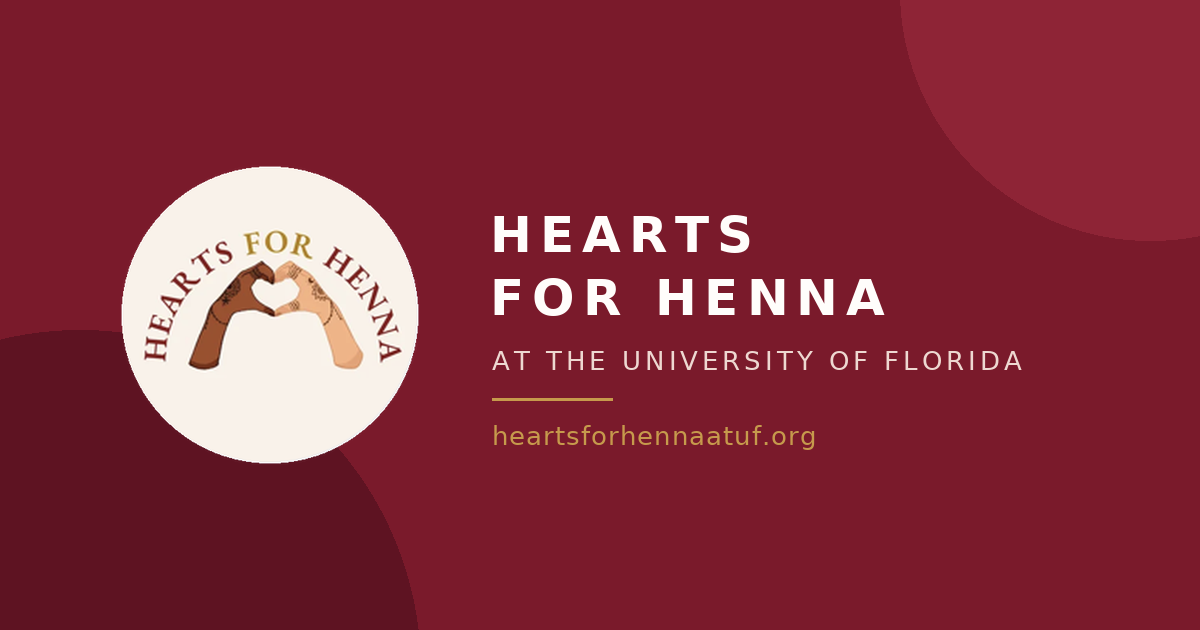
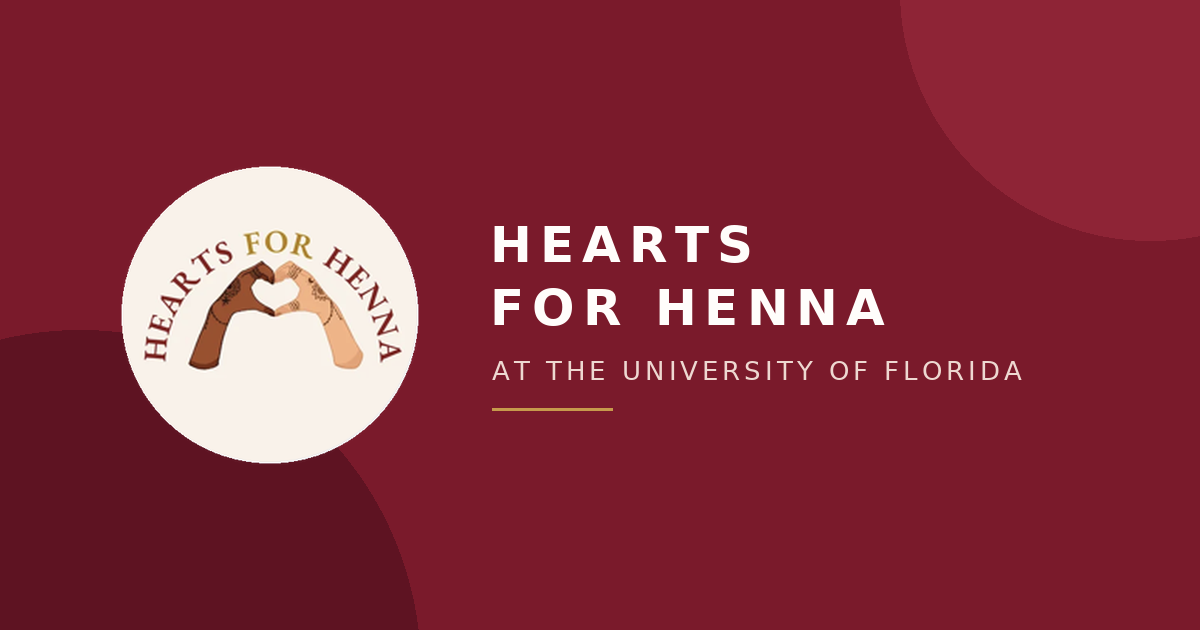
Switch to free GitHub Pages hosting
Point canonical, Open Graph and sitemap URLs at sonireddy55.github.io/HeartsforHenna,
fix 404 page paths for the project subpath, drop domain from share image,
remove root-only robots.txt, add .nojekyll, and rewrite README hosting steps.

Claude-Session: https://claude.ai/code/session_01LRwwowWDVH3EGnFEic7pzR

Changed region(s): [[0.4008, 0.3317, 0.74, 0.5127], [0.4008, 0.5429, 0.8633, 0.6032], [0.4008, 0.6333, 0.6783, 0.7238]]

diff --git a/404.html b/404.html
@@ -4,12 +4,12 @@
 <meta charset="utf-8">
 <meta name="viewport" content="width=device-width, initial-scale=1, viewport-fit=cover">
 <meta name="robots" content="noindex">
-<link rel="icon" href="/logo.png">
+<link rel="icon" href="/HeartsforHenna/logo.png">
 <title>Page not found | Hearts for Henna</title>
 <link rel="preconnect" href="https://fonts.googleapis.com">
 <link rel="preconnect" href="https://fonts.gstatic.com" crossorigin>
 <link rel="stylesheet" href="https://fonts.googleapis.com/css2?family=Syncopate:wght@400;700&family=Rochester&family=Jost:wght@400;500&display=swap">
-<link rel="stylesheet" href="/styles.css">
+<link rel="stylesheet" href="/HeartsforHenna/styles.css">
 <style>
   body{margin:0;min-height:100vh;min-height:100dvh;display:grid;place-items:center;background:var(--burgundy);color:var(--white);text-align:center;padding:2rem 16px}
   .box{display:grid;justify-items:center;gap:1.2rem;max-width:30rem}
@@ -22,10 +22,10 @@
 </head>
 <body>
   <div class="box">
-    <img src="/logo.png" alt="Hearts for Henna logo">
+    <img src="/HeartsforHenna/logo.png" alt="Hearts for Henna logo">
     <div class="title"><span class="lead">Oops,</span><h2>Page not found</h2></div>
     <p>This page doesn't exist or has moved.</p>
-    <a class="pill light" href="/">Back to home</a>
+    <a class="pill light" href="/HeartsforHenna/">Back to home</a>
   </div>
 </body>
 </html>

diff --git a/index.html b/index.html
@@ -5,13 +5,13 @@
 <meta name="viewport" content="width=device-width, initial-scale=1, viewport-fit=cover">
 <meta name="description" content="Hearts for Henna is a service-based student organization at the University of Florida that uses henna to raise money for charity.">
 <link rel="icon" href="logo.png">
-<link rel="canonical" href="https://heartsforhennaatuf.org/">
+<link rel="canonical" href="https://sonireddy55.github.io/HeartsforHenna/">
 <meta property="og:type" content="website">
 <meta property="og:site_name" content="Hearts for Henna at UF">
 <meta property="og:title" content="Hearts for Henna at UF">
 <meta property="og:description" content="Hearts for Henna is a service-based student organization at the University of Florida that uses henna to raise money for charity.">
-<meta property="og:url" content="https://heartsforhennaatuf.org/">
-<meta property="og:image" content="https://heartsforhennaatuf.org/og-image.png">
+<meta property="og:url" content="https://sonireddy55.github.io/HeartsforHenna/">
+<meta property="og:image" content="https://sonireddy55.github.io/HeartsforHenna/og-image.png">
 <meta property="og:image:width" content="1200">
 <meta property="og:image:height" content="630">
 <meta name="twitter:card" content="summary_large_image">

diff --git a/gallery.html b/gallery.html
@@ -5,13 +5,13 @@
 <meta name="viewport" content="width=device-width, initial-scale=1, viewport-fit=cover">
 <link rel="icon" href="logo.png">
 <meta name="description" content="Henna designs from Hearts for Henna fundraisers and workshops at the University of Florida.">
-<link rel="canonical" href="https://heartsforhennaatuf.org/gallery">
+<link rel="canonical" href="https://sonireddy55.github.io/HeartsforHenna/gallery.html">
 <meta property="og:type" content="website">
 <meta property="og:site_name" content="Hearts for Henna at UF">
 <meta property="og:title" content="Gallery | Hearts for Henna at UF">
 <meta property="og:description" content="Henna designs from Hearts for Henna fundraisers and workshops at the University of Florida.">
-<meta property="og:url" content="https://heartsforhennaatuf.org/gallery">
-<meta property="og:image" content="https://heartsforhennaatuf.org/og-image.png">
+<meta property="og:url" content="https://sonireddy55.github.io/HeartsforHenna/gallery.html">
+<meta property="og:image" content="https://sonireddy55.github.io/HeartsforHenna/og-image.png">
 <meta property="og:image:width" content="1200">
 <meta property="og:image:height" content="630">
 <meta name="twitter:card" content="summary_large_image">

diff --git a/README.md b/README.md
@@ -2,7 +2,7 @@
 
 ### 👉 [Open the live site](https://sonireddy55.github.io/HeartsforHenna/)
 
-> Current link is GitHub Pages (works once Pages is turned on in repo **Settings → Pages**, `main` / root). The permanent address will be **https://heartsforhennaatuf.org** once the domain is registered and connected; see [Domain and hosting](#domain-and-hosting).
+> Hosted free on GitHub Pages. The link works once Pages is turned on; see [Hosting](#hosting).
 
 Website for Hearts for Henna, a service-based student organization at the University of Florida.
 
@@ -20,7 +20,8 @@ Plain static site: no build step, no dependencies. Open `index.html` in a browse
 | `logo.png` | Club logo |
 | `og-image.png` | Preview image shown when the link is shared (iMessage, Instagram, GroupMe, LinkedIn) |
 | `404.html` | Page shown for broken links |
-| `robots.txt`, `sitemap.xml` | Help search engines find and index the site |
+| `sitemap.xml` | Lists the pages for search engines (submit it in Google Search Console) |
+| `.nojekyll` | Tells GitHub Pages to serve the files as-is, with no processing |
 
 ## Updating content
 
@@ -33,37 +34,23 @@ Edit `data.js`; both pages read from it.
 
 Any `src` or `photo` left as `null` shows a placeholder.
 
-## Domain and hosting
+## Hosting
 
-Domain: `heartsforhennaatuf.org`. Host: Cloudflare Pages, which redeploys automatically on every push to `main` and gives each pull request its own preview link.
+Hosted free on **GitHub Pages** at https://sonireddy55.github.io/HeartsforHenna/
 
-### 1. Register the domain (Cloudflare Registrar)
+### Turn it on (one time)
 
-1. Sign in to Cloudflare with the **club account** (heartsforhennauf@gmail.com), not a personal one, so the domain stays with the club.
-2. Go to **Domain Registration → Register Domains**, search `heartsforhennaatuf.org`, and buy it.
-3. Turn on **auto-renew**.
+1. In this repo, go to **Settings → Pages**.
+2. Under **Build and deployment**, set Source to **Deploy from a branch**.
+3. Pick branch **`main`** and folder **`/ (root)`**, then **Save**.
+4. After about a minute, the site is live at the link above. Every push to `main` updates it automatically.
 
-### 2. Deploy the site (Cloudflare Pages)
+### Moving to a custom domain later (optional)
 
-1. In the dashboard, go to **Workers & Pages → Create → Pages → Connect to Git**.
-2. Authorize GitHub and pick the `HeartsforHenna` repo.
-3. Build settings: framework preset **None**, build command **empty**, output directory **`/`**. Save and deploy.
-4. The site goes live at a `*.pages.dev` address within a minute.
+If the club buys a domain later (for example `heartsforhennaatuf.org`, about $9 the first year and $11/year after at Cloudflare):
 
-### 3. Connect the domain
+1. Register it under the **club account** (heartsforhennauf@gmail.com) and turn on auto-renew.
+2. In **Settings → Pages → Custom domain**, enter the domain and follow GitHub's DNS instructions, then check **Enforce HTTPS**.
+3. Find and replace `https://sonireddy55.github.io/HeartsforHenna` with the new domain in `index.html`, `gallery.html`, and `sitemap.xml`, and change `/HeartsforHenna/` to `/` in `404.html`.
 
-1. In the Pages project, open **Custom domains → Set up a custom domain**.
-2. Enter `heartsforhennaatuf.org` and confirm. Since the domain is already on Cloudflare, DNS and HTTPS are set up automatically.
-3. Optionally add `www.heartsforhennaatuf.org` too, and set it to redirect to the main domain.
-4. Update the live-site link at the top of this README to the new domain, and turn off GitHub Pages (**Settings → Pages**) so there's only one copy of the site online.
-
-### Ownership and renewal
-
-| | |
-|---|---|
-| Domain owner account | heartsforhennauf@gmail.com |
-| Registrar | Cloudflare |
-| Renews | _fill in after purchase_ |
-| Approximate renewal cost | ~$11/year for .org at Cloudflare (check the dashboard for the current price) |
-
-**Board handoff:** when the technical director changes, transfer access to the Cloudflare and GitHub accounts and update this table.
+**Board handoff:** when the technical director changes, give the next one access to this GitHub repo (and the domain account, if one exists).
